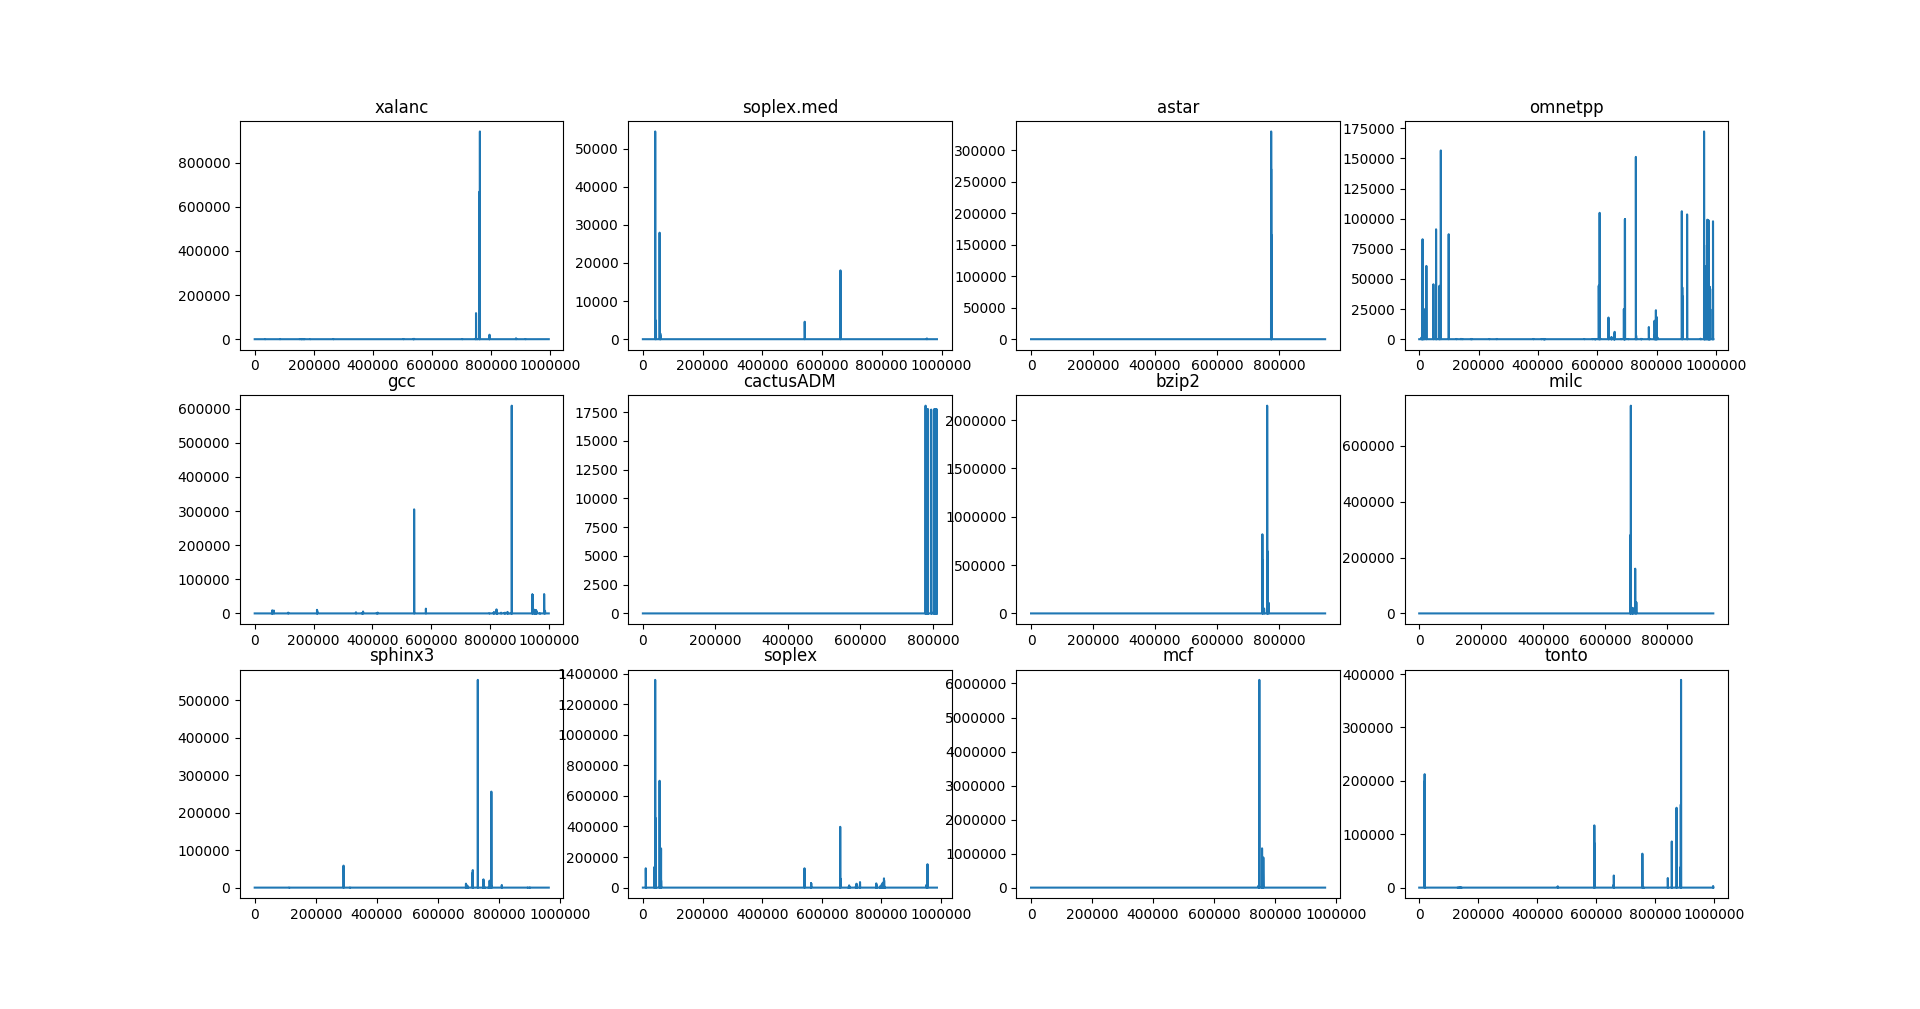
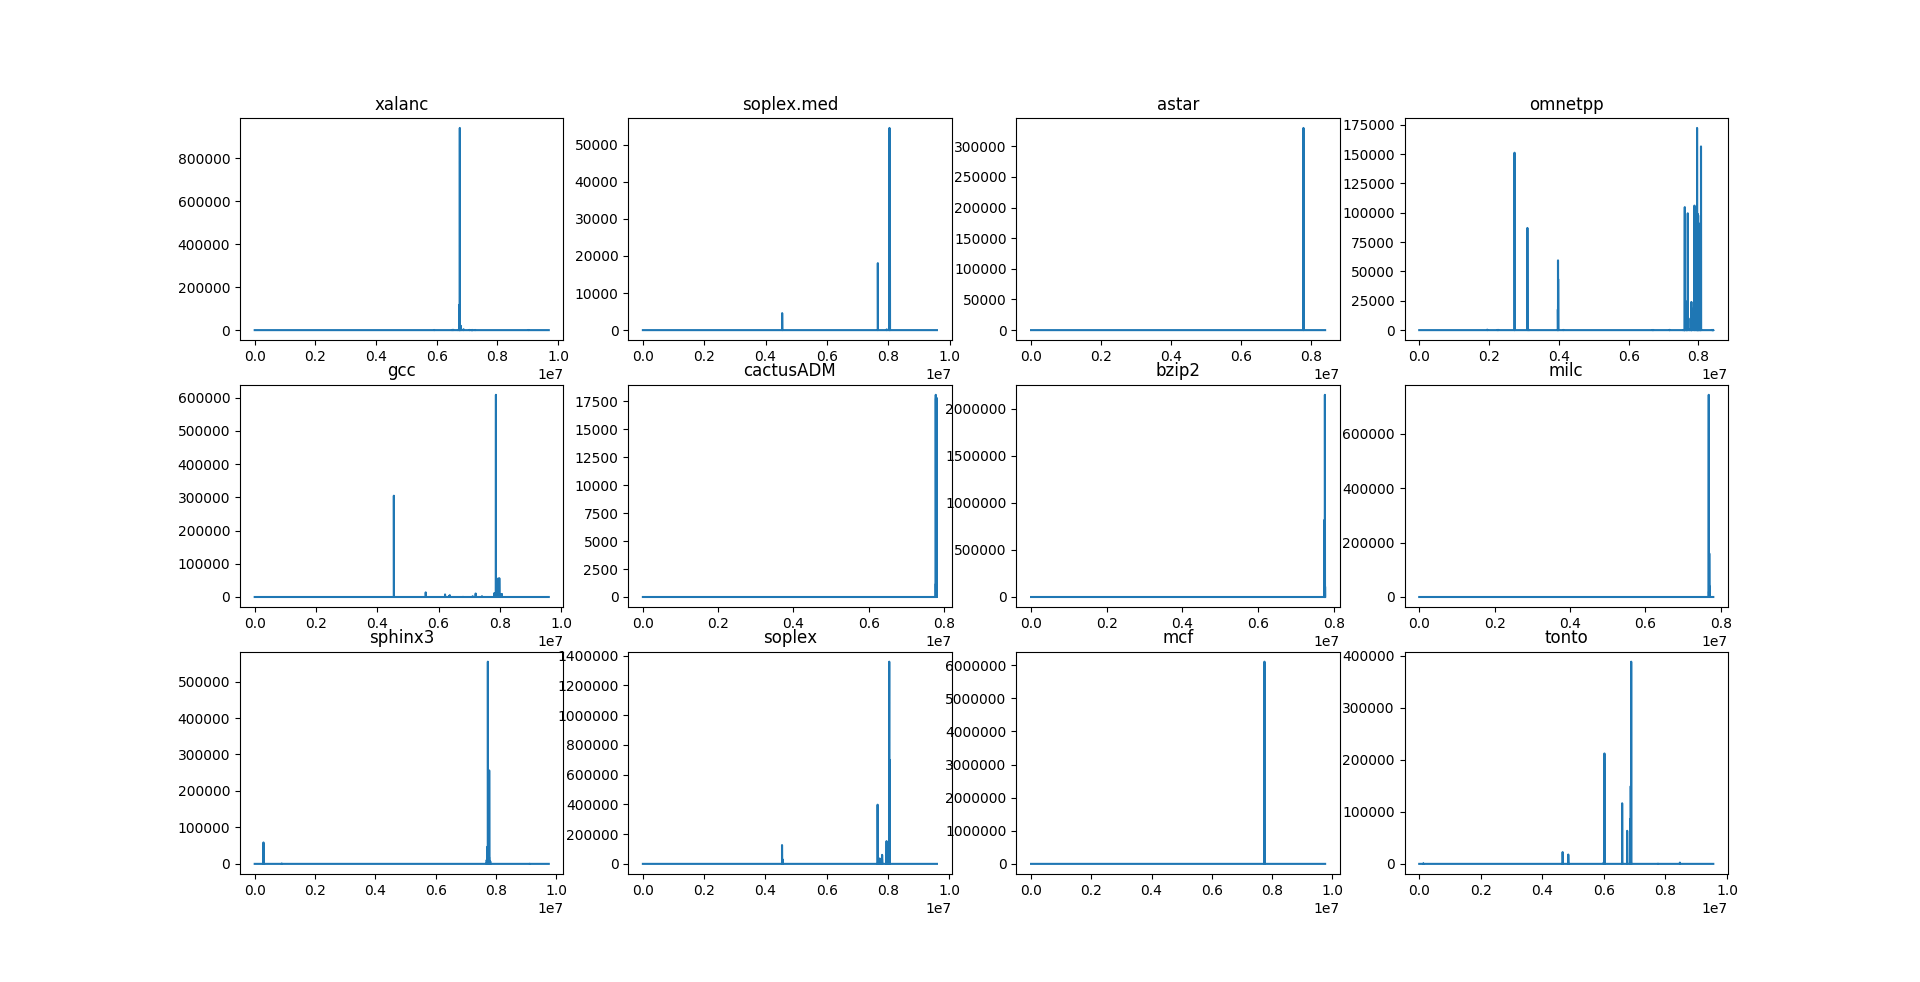
Updated code

diff --git a/features_analysis/analysis/ml_analysis.py b/features_analysis/analysis/ml_analysis.py
@@ -31,7 +31,7 @@ for program in os.listdir(sys.argv[1]):
         num_pred_correct = num_pred_correct + int(read_instr[-1])
         PC = int(read_instr[2], 16)
         unique_PCs.add(PC)
-        PC_list.append(PC % 1000000)
+        PC_list.append(PC % 10000000)
 
     PC_freq = np.bincount(PC_list)
 
